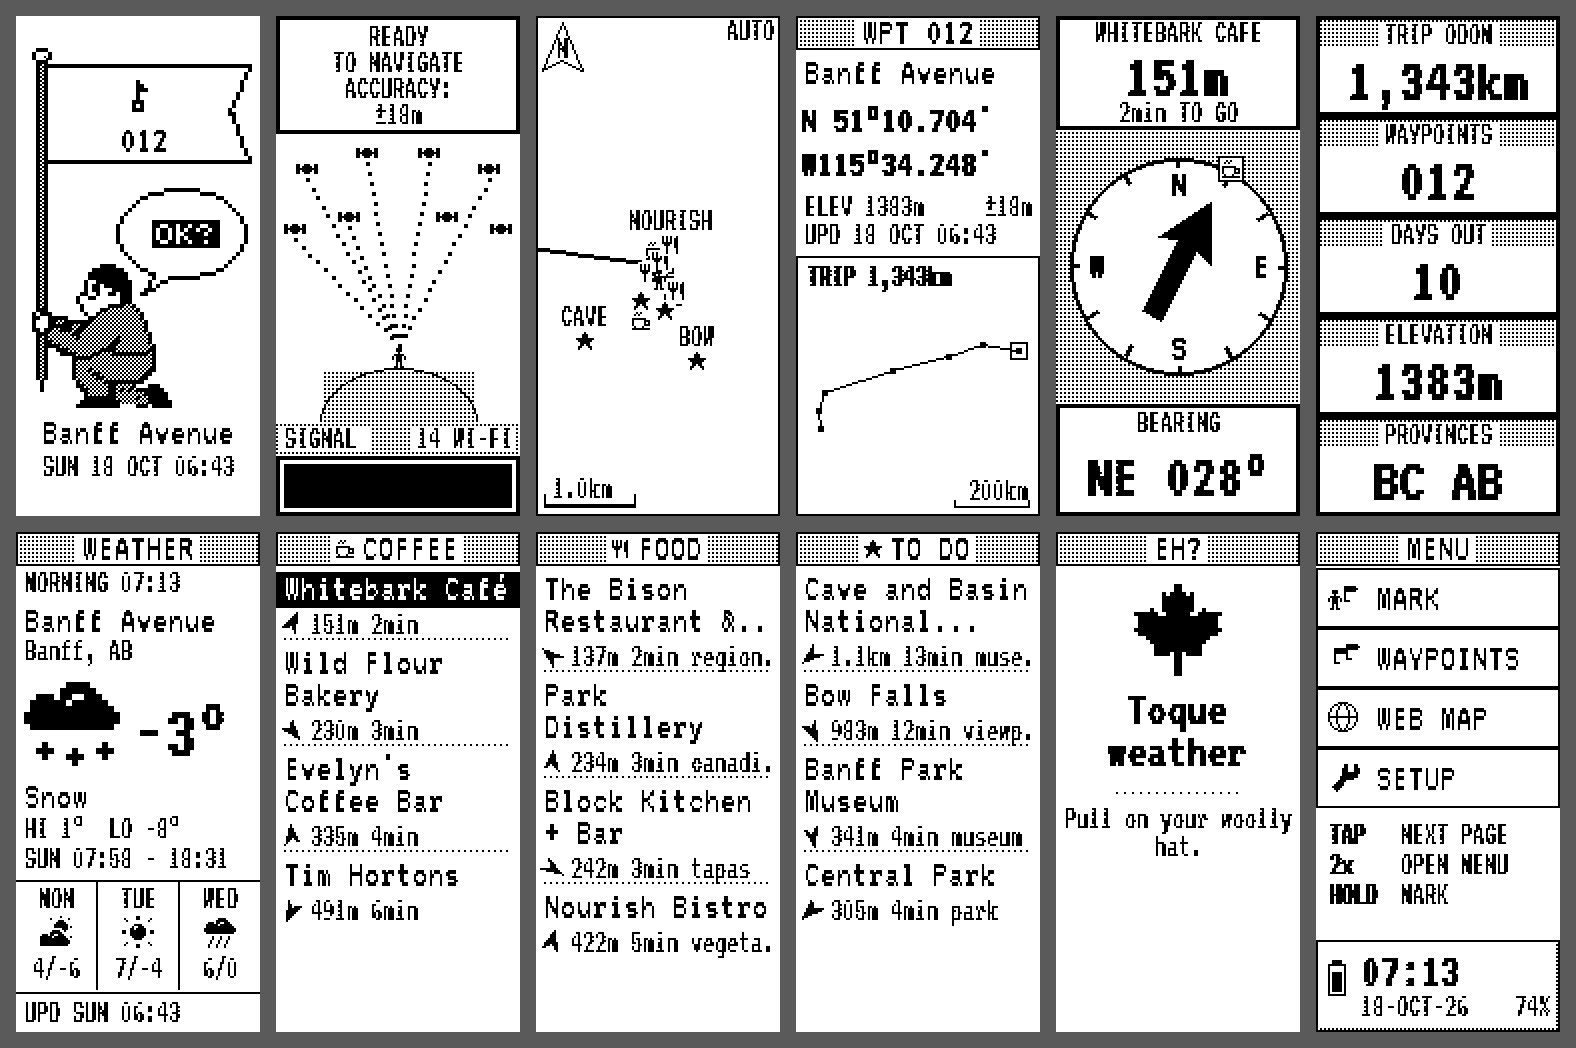
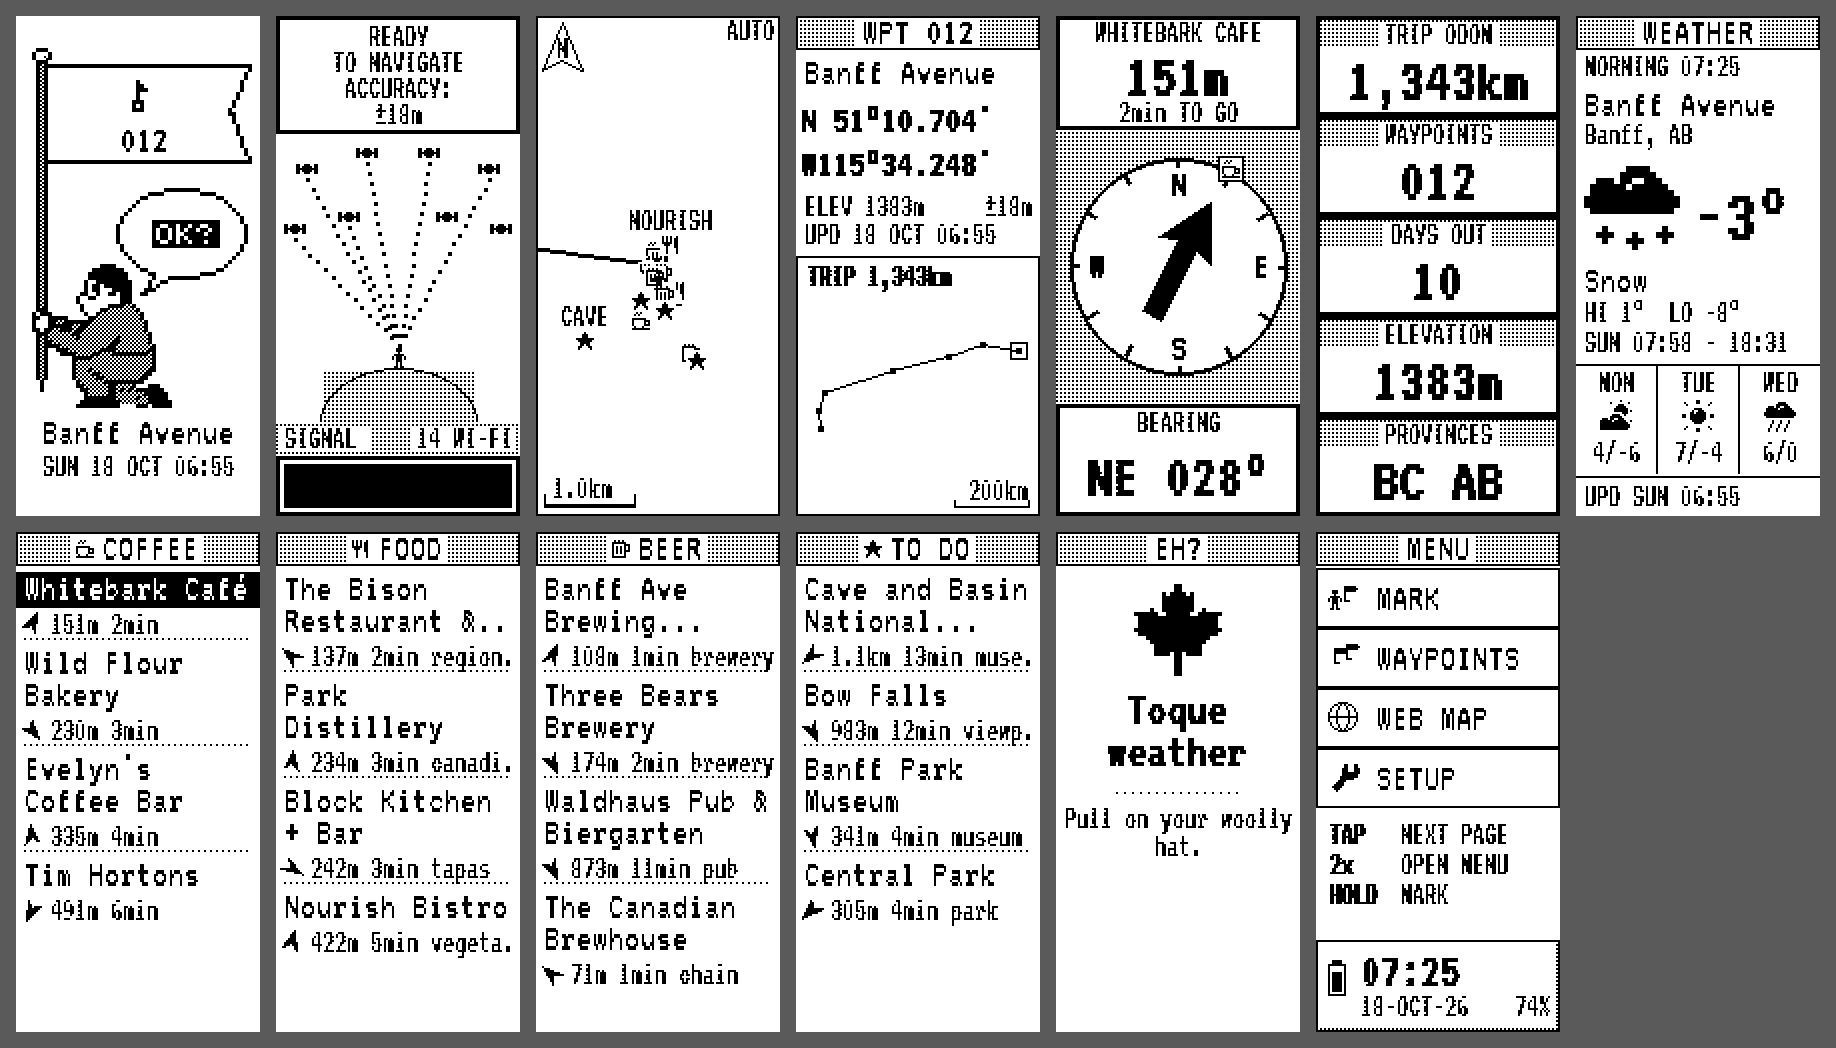
Add a Beer page: craft breweries first, then local pubs
Fetches every pub, bar and beer garden within 2 km (a city centre has 100+), so breweries a
little further off aren't crowded out; ranks microbreweries and brewing names (including
Québec's brasseurs) first, distilleries next, local pubs, then chains. Plain bars are left out.

diff --git a/retrogps/guide.py b/retrogps/guide.py
@@ -6,6 +6,7 @@ import base64
 import json
 import os
 import random
+import re
 import threading
 import time
 from datetime import datetime, timedelta, timezone
@@ -16,7 +17,8 @@ from . import geo, net
 from . import config as C
 from .sayings import SAYINGS
 
-KINDS = ("coffee", "food", "todo")
+KINDS = ("coffee", "food", "beer", "todo")
+FAR_KINDS = ("beer", "todo")  # worth a longer walk
 MAX_PTS, MAX_PENDING = 64, 48
 
 
@@ -197,7 +199,7 @@ class Candidates:
         if not name or lat is None:
             return
         dist = round(geo.distance_m(self.lat, self.lon, lat, lon))
-        if dist > (C.ACTIVITY_RADIUS_M if kind == "todo" else C.WALK_RADIUS_M):
+        if dist > (C.ACTIVITY_RADIUS_M if kind in FAR_KINDS else C.WALK_RADIUS_M):
             return
         lst = self.lists[kind]
         key = "".join(ch for ch in name.lower() if ch.isalnum())[:12]
@@ -213,10 +215,28 @@ class Candidates:
                 for k, v in self.lists.items()}
 
 
-def geoapify(cands, key, kind, categories, radius):
+BREWERY_NAME = re.compile(r"brew|taproom|tap room|ale ?works|beer co|brasseur|microbrasserie", re.I)
+
+
+def beer_rank(tags, categories, name, chain):
+    """Craft breweries first, then local pubs; chains and plain bars last (None = leave out).
+    Returns (info, bonus)."""
+    craft = (tags.get("microbrewery") == "yes" or tags.get("craft") == "brewery"
+             or any(c.startswith("production") for c in categories) or bool(BREWERY_NAME.search(name or "")))
+    if chain:
+        return "chain", 1500
+    if craft:
+        return ("distillery", -1500) if "distill" in (name or "").lower() else ("brewery", -3000)
+    amenity = tags.get("amenity", "")
+    if amenity in ("pub", "biergarten"):
+        return amenity, 0
+    return None
+
+
+def geoapify(cands, key, kind, categories, radius, limit=30):
     r = net.http_json(f"https://api.geoapify.com/v2/places?categories={categories}"
                       f"&filter=circle:{cands.lon:.5f},{cands.lat:.5f},{radius}"
-                      f"&bias=proximity:{cands.lon:.5f},{cands.lat:.5f}&limit=30&apiKey={key}")
+                      f"&bias=proximity:{cands.lon:.5f},{cands.lat:.5f}&limit={limit}&apiKey={key}")
     for f in (r or {}).get("features", []):
         p = f.get("properties", {})
         raw = p.get("datasource", {}).get("raw", {})
@@ -228,6 +248,11 @@ def geoapify(cands, key, kind, categories, radius):
                 (c[20:] for c in p.get("categories", []) if c.startswith("catering.restaurant.")), "")
         elif kind == "todo":
             info = _activity_kind(raw.get("tourism"), raw.get("leisure"), raw.get("historic"))
+        elif kind == "beer":
+            ranked = beer_rank(raw, p.get("categories", []), p.get("name"), chain)
+            if ranked:
+                cands.add(kind, p.get("name"), p.get("lat"), p.get("lon"), *ranked)
+            continue
         # local spots beat chains; for things to do, places famous enough for Wikipedia come first
         bonus = (-1500 if famous else 0) if kind == "todo" else ((600 if kind == "food" else 300) if chain else 0)
         cands.add(kind, p.get("name"), p.get("lat"), p.get("lon"), info, bonus)
@@ -240,6 +265,8 @@ def overpass(cands):
          f"nwr(around:{w},{la:.5f},{lo:.5f})[shop=coffee][name];"
          f'nwr(around:{a},{la:.5f},{lo:.5f})[tourism~"^(attraction|museum|viewpoint|gallery|zoo|aquarium|theme_park)$"][name];'
          f'nwr(around:{a},{la:.5f},{lo:.5f})[leisure~"^(park|nature_reserve|garden)$"][name][wikidata];'
+         f'nwr(around:{a},{la:.5f},{lo:.5f})[amenity~"^(pub|biergarten|bar)$"][name];'
+         f"nwr(around:{a},{la:.5f},{lo:.5f})[craft=brewery][name];"
          ");out center tags;")
     for server in ("https://overpass-api.de/api/interpreter",
                    "https://overpass.private.coffee/api/interpreter",
@@ -257,6 +284,10 @@ def overpass(cands):
             cands.add("coffee", t.get("name"), at.get("lat"), at.get("lon"), "", 300 if chain else 0)
         elif t.get("amenity") == "restaurant":
             cands.add("food", t.get("name"), at.get("lat"), at.get("lon"), t.get("cuisine"), 600 if chain else 0)
+        elif t.get("amenity") in ("pub", "biergarten", "bar") or t.get("craft") == "brewery":
+            ranked = beer_rank(t, [], t.get("name"), chain)
+            if ranked:
+                cands.add("beer", t.get("name"), at.get("lat"), at.get("lon"), *ranked)
         else:
             cands.add("todo", t.get("name"), at.get("lat"), at.get("lon"),
                       _activity_kind(t.get("tourism"), t.get("leisure"), None), -1500 if famous else 0)
@@ -268,6 +299,9 @@ def fetch_places(g, keys):
     if key:
         geoapify(cands, key, "coffee", "catering.cafe", C.WALK_RADIUS_M)
         geoapify(cands, key, "food", "catering.restaurant", C.WALK_RADIUS_M)
+        # a city centre has 100+ bars; fetch them all so breweries a little further off still make it
+        geoapify(cands, key, "beer", "production.brewery,catering.pub,catering.biergarten,catering.bar",
+                 C.ACTIVITY_RADIUS_M, limit=200)
         geoapify(cands, key, "todo", "tourism.attraction,tourism.sights,entertainment.museum,leisure.park",
                  C.ACTIVITY_RADIUS_M)
     else:
@@ -290,7 +324,7 @@ def geojson(store):
                  "place": ", ".join(x for x in (w.get("area"), w.get("city"), w.get("province")) if x),
                  "weather": f"{round(w.get('temp', 0))}°C {geo.weather_text(w.get('code', -1))}",
                  "elevation": f"{w.get('elevation', 0)} m"}
-        for k, label in (("coffee", "coffee"), ("food", "food"), ("todo", "to do")):
+        for k, label in (("coffee", "coffee"), ("food", "food"), ("beer", "beer"), ("todo", "to do")):
             props[label] = ", ".join(f"{p['name']} ({p['dist']}m)" for p in w.get("places", {}).get(k, []))
         feats.append({"type": "Feature", "properties": props,
                       "geometry": {"type": "Point", "coordinates": [w["lon"], w["lat"]]}})

diff --git a/retrogps/screens.py b/retrogps/screens.py
@@ -13,11 +13,11 @@ from . import guide
 from .sayings import SAYINGS
 
 W, H = C.W, C.H
-PAGES = ("mark", "sky", "map", "waypoint", "pointer", "trip", "weather", "coffee", "food", "todo", "eh", "menu")
+PAGES = ("mark", "sky", "map", "waypoint", "pointer", "trip", "weather", "coffee", "food", "beer", "todo", "eh", "menu")
 MENU_ITEMS = ("MARK", "WAYPOINTS", "WEB MAP", "SETUP")
 SETUP_ITEMS = ("SYNC NOW", "ROTATE SCREEN", "NEW TRIP", "SLEEP NOW")
 ZOOMS = (None, 200, 500, 1000, 2000, 5000, 20000, 100000, 500000)  # metres per 100 px; None = auto
-TITLES = {"coffee": "COFFEE", "food": "FOOD", "todo": "TO DO"}
+TITLES = {"coffee": "COFFEE", "food": "FOOD", "beer": "BEER", "todo": "TO DO"}
 
 _fonts = {}
 
@@ -489,8 +489,9 @@ def page_places(c, s, ctx, kind):
         return
     places = (g.get("places") or {}).get(kind, [])
     if not places:
-        for i, l in enumerate(("Nothing within" if kind != "todo" else "Nothing listed",
-                               "walking distance." if kind != "todo" else "nearby.", "", "HOLD to update")):
+        far = kind in guide.FAR_KINDS
+        for i, l in enumerate(("Nothing within" if not far else "Nothing listed",
+                               "walking distance." if not far else "nearby.", "", "HOLD to update")):
             c.center(90 + 16 * i, l, 16)
         return
     dest = s["ui"].get("dest") or {}

diff --git a/tests/test_retrogps.py b/tests/test_retrogps.py
@@ -103,6 +103,20 @@ class Trip(unittest.TestCase):
         c.add("coffee", "Far Away", 51.05, -114.0, "", 0)       # beyond walking distance
         self.assertEqual([p["name"] for p in c.best()["coffee"]], ["Tiny Local", "Tim Hortons"])
 
+    def test_craft_breweries_beat_pubs_and_chains(self):
+        c = guide.Candidates(51.0, -114.0)
+        for name, tags, cats, chain in (
+                ("The Canadian Brewhouse", {"amenity": "pub"}, [], True),
+                ("Rose and Crown", {"amenity": "pub"}, [], False),
+                ("Cocktail Lounge", {"amenity": "bar"}, [], False),          # left out
+                ("Steamworks", {"amenity": "pub", "microbrewery": "yes"}, [], False),
+                ("Banff Ave Brewing Company", {"amenity": "pub"}, [], False)):
+            ranked = guide.beer_rank(tags, cats, name, chain)
+            if ranked:
+                c.add("beer", name, 51.001, -114.0, *ranked)
+        self.assertEqual([p["name"] for p in c.best()["beer"]],
+                         ["Steamworks", "Banff Ave Brewing Company", "Rose and Crown", "The Canadian Brewhouse"])
+
     def test_exports(self):
         with tempfile.TemporaryDirectory() as d:
             st = guide.Store(d)

diff --git a/tools/preview.py b/tools/preview.py
@@ -37,6 +37,10 @@ def sample_state():
                      p("Park Distillery", "canadian", 0.0021, 0.0002),
                      p("Block Kitchen + Bar", "tapas", -0.0011, 0.0030),
                      p("Nourish Bistro", "vegetarian", 0.0036, 0.0019)],
+            "beer": [p("Banff Ave Brewing Company", "brewery", 0.0009, 0.0006),
+                     p("Three Bears Brewery", "brewery", -0.0014, 0.0011),
+                     p("Waldhaus Pub & Biergarten", "pub", -0.0072, 0.0050),
+                     p("The Canadian Brewhouse", "chain", 0.0004, -0.0008)],
             "todo": [p("Cave and Basin National Historic Site", "museum", -0.006, -0.012),
                      p("Bow Falls", "viewpoint", -0.008, 0.006), p("Banff Park Museum", "museum", -0.003, 0.001),
                      p("Central Park", "park", -0.002, -0.003)],

diff --git a/retrogps/webmap.py b/retrogps/webmap.py
@@ -16,7 +16,7 @@ const m=L.map('m');L.tileLayer('https://tile.openstreetmap.org/{z}/{x}/{y}.png',
 const e=s=>String(s??'').replace(/[&<>"]/g,c=>({'&':'&amp;','<':'&lt;','>':'&gt;','"':'&quot;'}[c]));
 fetch('/trip.geojson').then(r=>r.json()).then(g=>{const l=L.geoJSON(g,{style:{color:'#d52b1e',weight:4},
 onEachFeature:(f,x)=>{const p=f.properties;if(f.geometry.type=='Point')x.bindPopup('<b>'+e(p.title)+'</b><br>'+
-[p.when,p.place,p.weather,'Coffee: '+p.coffee,'Food: '+p.food,'To do: '+p['to do']].map(e).join('<br>'))}}).addTo(m);
+[p.when,p.place,p.weather,'Coffee: '+p.coffee,'Food: '+p.food,'Beer: '+p.beer,'To do: '+p['to do']].map(e).join('<br>'))}}).addTo(m);
 m.fitBounds(l.getBounds(),{maxZoom:15})}).catch(()=>m.setView([56,-96],3));
 </script></body></html>"""
 

diff --git a/retrogps/art.py b/retrogps/art.py
@@ -81,6 +81,18 @@ FOOD = bitmap("""
 ..#....#.
 """)
 
+BEER = bitmap("""
+.#.#.#...
+#######..
+#.....###
+#.#.#.#.#
+#.#.#.#.#
+#.#.#.###
+#.#.#.#..
+#.....#..
+#######..
+""")
+
 STAR = bitmap("""
 ....#....
 ...###...
@@ -104,7 +116,7 @@ FLAG = bitmap("""
 ###....
 """)
 
-SYMBOLS = {"coffee": COFFEE, "food": FOOD, "todo": STAR, "wpt": FLAG}
+SYMBOLS = {"coffee": COFFEE, "food": FOOD, "beer": BEER, "todo": STAR, "wpt": FLAG}
 
 BATTERY_W, BATTERY_H = 9, 14
 

diff --git a/README.md b/README.md
@@ -1,10 +1,10 @@
 # Retro GPS
 
-![Every page: mark, SkyView, map, waypoint, pointer, trip computer, weather, coffee, food, to do, Eh? and menu](docs/screens.png)
+![Every page: mark, SkyView, map, waypoint, pointer, trip computer, weather, coffee, food, beer, to do, Eh? and menu](docs/screens.png)
 
 A Garmin eTrex H-style trip logger on a **Raspberry Pi Zero 2 W** with a **Waveshare 2.13" e-Paper HAT (V4)**, used upright (122×250, like the eTrex), and a **PiSugar 3** battery. It's the bigger sibling of the [Retro Canada Guide](https://github.com/nomaditect/retro-canada-guide) and does everything that does, with the eTrex's own pages added.
 
-Four times a day (6am, 10am, 4pm and 8pm local time, wherever you are) it wakes up, joins your phone's hotspot, works out where you are from the Wi-Fi around you, marks a waypoint and finds coffee, food and things to do within walking distance. Between those it does a quick Wi-Fi scan every hour in the daytime, so the route has breadcrumbs. The Pi is fully off the rest of the time: the PiSugar's clock wakes it.
+Four times a day (6am, 10am, 4pm and 8pm local time, wherever you are) it wakes up, joins your phone's hotspot, works out where you are from the Wi-Fi around you, marks a waypoint and finds coffee, food, craft breweries and things to do nearby. Between those it does a quick Wi-Fi scan every hour in the daytime, so the route has breadcrumbs. The Pi is fully off the rest of the time: the PiSugar's clock wakes it.
 
 ## The button
 
@@ -27,9 +27,9 @@ When the Pi is off, a tap turns it on. Holding the button for a long time asks i
 5. **Pointer**: a compass ring with a big arrow to your destination, the distance and the walking time. The Pi has no compass, so the ring is north-up: turn until its N faces real north. *2x: next destination*
 6. **Trip Computer**: five eTrex boxes: trip distance, waypoints, days out, elevation and provinces. *2x: sunrise, sunset, next mark, battery and time*
 7. **Weather**: neighbourhood, city and province, temperature, high and low, sunrise and sunset, and the next three days
-8. **Coffee**, 9. **Food**, 10. **To do**: the nearest four, with distance, walking time and an arrow pointing the way (local places rank above chains; famous sights come first). *2x: GOTO the next one (it's highlighted, and the Pointer and Map point at it)*
-11. **Eh?**: a Canadian saying picked to suit the province, the weather and the time of day. *2x: another one*
-12. **Menu**: MARK, WAYPOINTS (pick one to GOTO), WEB MAP and SETUP (sync now, rotate screen, new trip, sleep now), with the time, date and battery
+8. **Coffee**, 9. **Food**, 10. **Beer**, 11. **To do**: the nearest four, with distance, walking time and an arrow pointing the way. Local places rank above chains; on Beer, craft breweries (and Québec's microbrasseries) within 2 km come first, then local pubs; famous sights come first on To do. *2x: GOTO the next one (it's highlighted, and the Pointer and Map point at it)*
+12. **Eh?**: a Canadian saying picked to suit the province, the weather and the time of day. *2x: another one*
+13. **Menu**: MARK, WAYPOINTS (pick one to GOTO), WEB MAP and SETUP (sync now, rotate screen, new trip, sleep now), with the time, date and battery
 
 **Web map**: on your phone, scan the QR code (same Wi-Fi as the Pi) to see the whole trip on a map, with popups for each waypoint, or download it as GPX or GeoJSON. It stays on for 10 minutes; hold to stop.
 
@@ -40,7 +40,7 @@ The screen keeps its last picture while the Pi is off, so it always shows someth
 | What | Service | Key |
 |---|---|---|
 | Position (from nearby Wi-Fi) | [Google Geolocation API](https://developers.google.com/maps/documentation/geolocation), or [BeaconDB](https://beacondb.net) without a key | optional, but much more accurate |
-| Coffee, food, things to do | [Geoapify Places](https://www.geoapify.com/places-api), or OpenStreetMap's Overpass without a key | free key recommended |
+| Coffee, food, beer, things to do | [Geoapify Places](https://www.geoapify.com/places-api), or OpenStreetMap's Overpass without a key | free key recommended |
 | Weather, forecast, sunrise, elevation, time zone | [Open-Meteo](https://open-meteo.com) | none |
 | Place names | [Nominatim](https://nominatim.org) (OpenStreetMap) | none |
 
